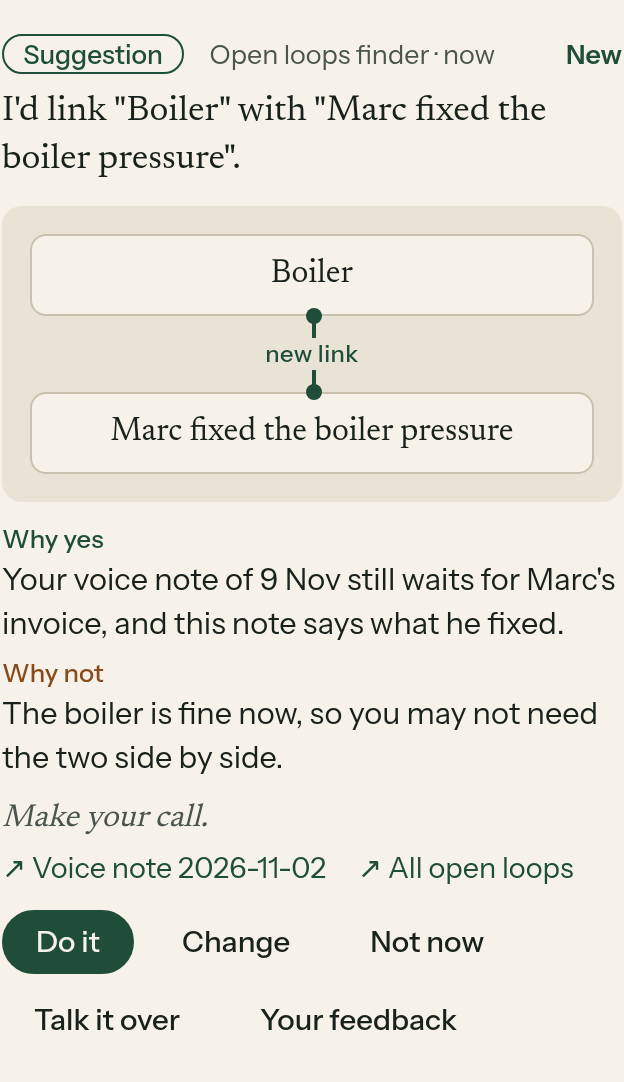
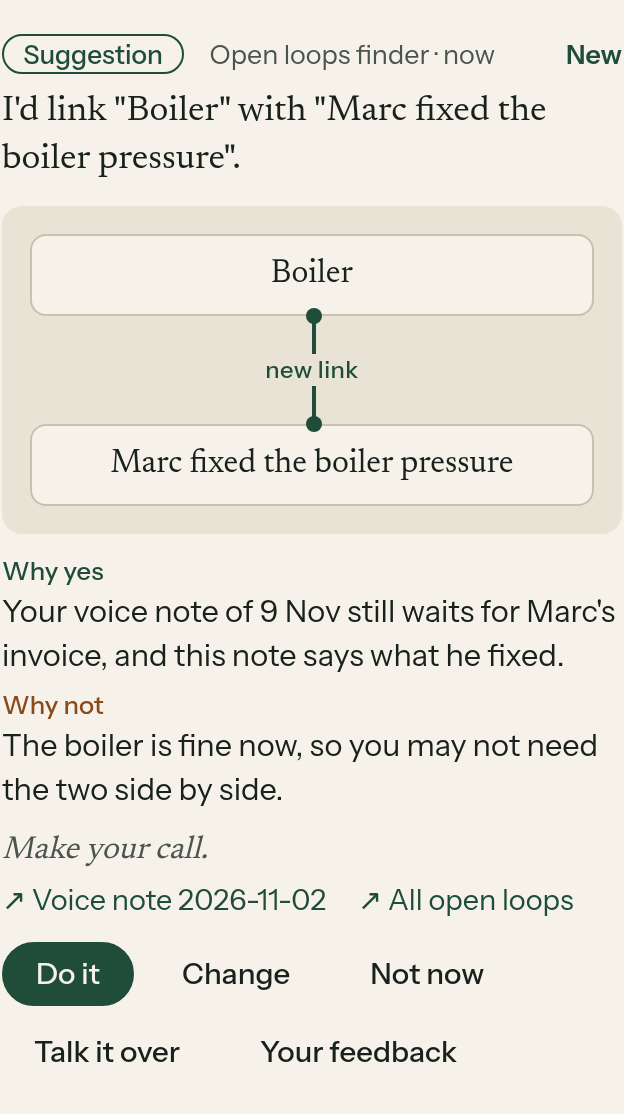
S36: the Clarifier's questions in the same card shape (S40 folded in)
The Clarifier's card now draws the words it is unsure of with a line to each thing they could mean,
one line "Why I ask", and "Make your call." over its answer buttons. The title, the buttons and how
an answer is filed are unchanged. The shared card gains a question form (change "which" with its
meanings, and a why line); a change keeps why yes and why not.

Run: run_c21ca1f9-55cc-4448-b31d-bc107dd54627

diff --git a/packages/server/src/helperCard.ts b/packages/server/src/helperCard.ts
@@ -3,29 +3,38 @@
  * introducing this new link. It's between these two concepts. That's why I think you should do it.
  * That's why you might not want to do it. Make your call." Every helper card says it the same way: a
  * small picture of the two ideas and what the change does between them, one line why yes, one line
- * why not, and the call is the person's. Later helpers (a clarifying question, something to try)
- * post the same shape, with or without a picture. Only the shape lives here; the web app draws it.
+ * why not, and the call is the person's. A helper's question (the Clarifier, S37, folded in as S40)
+ * says it the same way: the words that could mean two things with a line to each meaning, one line
+ * why it asks, and the call is the person's. Only the shape lives here; the web app draws it.
  */
 
-/** What the change does between the two ideas in the picture; the memory desk can do each of these. */
-export type HelperCardChange = "link" | "unlink" | "move" | "rename" | "own-place";
+/**
+ * What the change does between the two ideas in the picture; the memory desk can do each of these.
+ * `which`: a question's picture, the words said and the two or three things they could mean.
+ */
+export type HelperCardChange = "link" | "unlink" | "move" | "rename" | "own-place" | "which";
 
-export const HELPER_CARD_CHANGES: readonly HelperCardChange[] = ["link", "unlink", "move", "rename", "own-place"];
+export const HELPER_CARD_CHANGES: readonly HelperCardChange[] = ["link", "unlink", "move", "rename", "own-place", "which"];
 
 export interface HelperCardPicture {
   change: HelperCardChange;
   /** The first idea: the page that is linked, moved or renamed, by what it is about. */
   from: string;
-  /** The second idea: the page it links to, the place it moves under, or the new name. Null for own-place. */
+  /** The second idea: the page it links to, the place it moves under, or the new name. Null for own-place and which. */
   to: string | null;
+  /** which: the two or three things the words could mean. */
+  meanings?: string[];
 }
 
+/** A change has why yes and why not; a question has why it asks. */
 export interface HelperCard {
   picture: HelperCardPicture | null;
   /** One line: why the helper thinks you should. */
-  yes: string;
+  yes?: string;
   /** One line: why you might not want to. */
-  no: string;
+  no?: string;
+  /** A question: one line why it asks. */
+  why?: string;
 }
 
 /** The last words on every helper card. */
@@ -37,14 +46,17 @@ const LINE_MAX = 240;
 const words = (value: unknown, max: number): string =>
   typeof value === "string" ? value.replace(/\s+/g, " ").trim().slice(0, max).trim() : "";
 
-/** A card from untrusted input (a model's reply, a post): null unless it has both reasons. */
+/** A card from untrusted input (a model's reply, a post): null unless it has both reasons, or why it asks. */
 export function cleanHelperCard(raw: unknown): HelperCard | null {
   if (!raw || typeof raw !== "object") return null;
   const data = raw as Record<string, unknown>;
   const yes = words(data.yes, LINE_MAX);
   const no = words(data.no, LINE_MAX);
-  if (!yes || !no) return null;
-  return { picture: cleanPicture(data.picture), yes, no };
+  const why = words(data.why, LINE_MAX);
+  const picture = cleanPicture(data.picture);
+  if (yes && no) return { picture: picture?.change === "which" ? null : picture, yes, no };
+  if (why && picture?.change === "which") return { picture, why };
+  return null;
 }
 
 function cleanPicture(raw: unknown): HelperCardPicture | null {
@@ -55,6 +67,14 @@ function cleanPicture(raw: unknown): HelperCardPicture | null {
   const to = words(data.to, IDEA_MAX);
   if (!change || !from) return null;
   if (change === "own-place") return { change, from, to: null };
+  if (change === "which") {
+    const seen = new Set<string>();
+    const meanings = (Array.isArray(data.meanings) ? data.meanings : [])
+      .map((meaning) => words(meaning, IDEA_MAX))
+      .filter((meaning) => meaning && !seen.has(meaning.toLowerCase()) && seen.add(meaning.toLowerCase()))
+      .slice(0, 3);
+    return meanings.length >= 2 ? { change, from, to: null, meanings } : null;
+  }
   if (!to || to.toLowerCase() === from.toLowerCase()) return null;
   return { change, from, to };
 }
@@ -68,11 +88,13 @@ export function pictureTitle(picture: HelperCardPicture): string {
     case "move": return `I'd move "${from}" under "${to}".`;
     case "rename": return `I'd rename "${from}" to "${to}".`;
     case "own-place": return `I'd give "${from}" its own place at the top of your memory.`;
+    case "which": return `Which did you mean by "${from}"?`;
   }
 }
 
 /** The picture in one line, as the helper's note keeps it: `Boiler, new link, Home`. */
 export function pictureWords(picture: HelperCardPicture): string {
+  if (picture.change === "which") return `${picture.from}, could mean, ${(picture.meanings ?? []).join(" or ")}`;
   const words = { link: "new link", unlink: "link off", move: "moves under", rename: "new name", "own-place": "own place" }[picture.change];
   return [picture.from, words, picture.to ?? "top of your memory"].join(", ");
 }
@@ -97,8 +119,9 @@ export function namedCard(card: HelperCard, phrases: ReadonlyArray<string>): Hel
   const named = (text: string) => namedMemories(text, phrases);
   return {
     picture: card.picture ? { ...card.picture, from: named(card.picture.from), to: card.picture.to ? named(card.picture.to) : null } : null,
-    yes: named(card.yes),
-    no: named(card.no),
+    ...(card.yes ? { yes: named(card.yes) } : {}),
+    ...(card.no ? { no: named(card.no) } : {}),
+    ...(card.why ? { why: named(card.why) } : {}),
   };
 }
 

diff --git a/apps/web/src/components/helper-card.tsx b/apps/web/src/components/helper-card.tsx
@@ -5,7 +5,8 @@ import "@/components/helper-card.css"
 // two concepts. That's why I think you should do it. That's why you might not want to do it. Make
 // your call." The one way a helper's card says what it wants: a small picture of the two ideas with
 // the change drawn between them, one line why yes, one line why not, and the call is yours. Every
-// helper card uses it, so later helpers (a clarifying question, something to try) look the same.
+// helper card uses it. A helper's question (the Clarifier) says it the same way: the words it is
+// unsure of, a line to each thing they could mean, why it asks, and the call is yours.
 
 /** The words on the line between the two ideas. */
 const CHANGE_WORDS: Record<HelperCardChange, string> = {
@@ -14,10 +15,12 @@ const CHANGE_WORDS: Record<HelperCardChange, string> = {
   move: "moves under",
   rename: "new name",
   "own-place": "own place",
+  which: "could mean",
 }
 
 function Picture({ picture }: { picture: NonNullable<HelperCard["picture"]> }) {
   const { change, from } = picture
+  if (change === "which") return <Which from={from} meanings={picture.meanings ?? []} />
   const to = change === "own-place" ? "Top of your memory" : picture.to
   return (
     <figure
@@ -37,7 +40,31 @@ function Picture({ picture }: { picture: NonNullable<HelperCard["picture"]> }) {
   )
 }
 
-/** The card's picture, why yes, why not and "Make your call", while the call is still open. */
+/** A question's picture: the words said, a line to each thing they could mean. */
+function Which({ from, meanings }: { from: string; meanings: string[] }) {
+  return (
+    <figure
+      className="zh-picture zh-which"
+      data-testid="helper-card-picture"
+      aria-label={`"${from}" could mean ${meanings.join(" or ")}`}
+    >
+      <span className="zh-idea zh-from zh-said">&ldquo;{from}&rdquo;</span>
+      <span className="zh-join" aria-hidden="true">
+        <span className="zh-line" />
+        <span className="zh-change">{CHANGE_WORDS.which}</span>
+      </span>
+      <span className="zh-meanings">
+        {meanings.map((meaning) => (
+          <span key={meaning} className="zh-idea zh-to">
+            {meaning}
+          </span>
+        ))}
+      </span>
+    </figure>
+  )
+}
+
+/** The card's picture, its reasons and "Make your call", while the call is still open. */
 export function HelperCardView({
   card,
   open,
@@ -49,14 +76,24 @@ export function HelperCardView({
     <div className="zh-card" data-testid="helper-card">
       {card.picture ? <Picture picture={card.picture} /> : null}
       <dl className="zh-why">
-        <div>
-          <dt>Why yes</dt>
-          <dd>{card.yes}</dd>
-        </div>
-        <div>
-          <dt>Why not</dt>
-          <dd>{card.no}</dd>
-        </div>
+        {card.why ? (
+          <div className="zh-ask">
+            <dt>Why I ask</dt>
+            <dd>{card.why}</dd>
+          </div>
+        ) : null}
+        {card.yes ? (
+          <div>
+            <dt>Why yes</dt>
+            <dd>{card.yes}</dd>
+          </div>
+        ) : null}
+        {card.no ? (
+          <div className="zh-not">
+            <dt>Why not</dt>
+            <dd>{card.no}</dd>
+          </div>
+        ) : null}
       </dl>
       {open ? <p className="zh-call">Make your call.</p> : null}
     </div>

diff --git a/packages/server/src/clarifier.ts b/packages/server/src/clarifier.ts
@@ -5,6 +5,7 @@ import type { PersonaStore } from "./personaStore.js";
 import type { SubscriberStore } from "./subscribers.js";
 import { isProjectWork } from "./helperScope.js";
 import { teamAskSubscription } from "./teamAsk.js";
+import type { HelperCard } from "./helperCard.js";
 
 /**
  * The Clarifier (EPIC-14 S37). Jordi, 2026-11-10: "we could have like a disambiguator or something.
@@ -90,17 +91,21 @@ export function memoryKind(title: string): string {
 }
 
 /**
- * The card it posts, in one place (S36 is rewriting every helper card in plain words; this is the
- * only spot to change). The title carries the memory, its day and the words, because the answer is
- * filed with the title as its first line: 'In your voice note of 10 Nov you said "the flat": which
- * flat did you mean?'.
+ * The card it posts, in one place. The title carries the memory, its day and the words, because the
+ * answer is filed with the title as its first line: 'In your voice note of 10 Nov you said "the
+ * flat": which flat did you mean?'. S36 (S40 folded in): in every helper card's shape, the words
+ * with a line to each thing they could mean, one line why it asks, then the call is the person's.
  */
-export function clarifierCard(c: Clarification, kind: string, capturedAt: string): { title: string; body: string; options: InboxOption[] } {
+export function clarifierCard(c: Clarification, kind: string, capturedAt: string): { title: string; body?: string; options: InboxOption[]; card?: HelperCard } {
   const said = `In your ${kind} of ${shortDay(capturedAt)}`;
+  const why = c.why || `It could mean ${c.options.length === 2 ? "either" : "any"} of these.`;
   return {
     title: c.quote ? `${said} you said "${c.quote}": ${c.question}` : `${said}: ${c.question}`,
-    body: [c.why, "Pick one, or answer in your own words."].filter(Boolean).join(" "),
     options: c.options.map((label, index) => ({ id: `m${index + 1}`, label })),
+    // Without the words said there is nothing to draw: the old body says why.
+    ...(c.quote
+      ? { card: { picture: { change: "which" as const, from: c.quote, to: null, meanings: c.options }, why } }
+      : { body: [c.why, "Pick one, or answer in your own words."].filter(Boolean).join(" ") }),
   };
 }
 

diff --git a/apps/web/src/components/helper-card.css b/apps/web/src/components/helper-card.css
@@ -51,12 +51,19 @@
 }
 .zh-move .zh-to, .zh-top { border-color: var(--zp-accent); }
 .zh-rename .zh-from { text-decoration: line-through; color: var(--zp-muted); }
+/* A question: the words said, then each thing they could mean, stacked. */
+.zh-said { font-style: italic; }
+.zh-meanings { display: flex; flex-direction: column; gap: 0.4rem; }
+.zh-which .zh-line::after {
+  content: ""; position: absolute; right: -1px; top: -6px;
+  border-left: 8px solid var(--zp-accent); border-top: 5px solid transparent; border-bottom: 5px solid transparent;
+}
 .zh-top { font-family: var(--zp-sans); font-size: 0.9rem; border-style: dashed; color: var(--zp-accent); }
 
 .zh-why { margin: 0; display: grid; gap: 0.35rem; }
 .zh-why div { display: grid; grid-template-columns: 5.2rem minmax(0, 1fr); gap: 0.6rem; align-items: baseline; }
 .zh-why dt { font: 500 0.8rem var(--zp-sans); color: var(--zp-accent); }
-.zh-why div + div dt { color: var(--zp-warn); }
+.zh-why .zh-not dt { color: var(--zp-warn); }
 .zh-why dd { margin: 0; font-size: 0.96rem; line-height: 1.45; }
 .zh-call { margin: 0; font: italic 400 1rem var(--zp-serif); color: var(--zp-muted); }
 
@@ -67,7 +74,7 @@
   .zh-unlink .zh-line { border-top: 0; border-left: 2px dashed var(--zp-faint); }
   .zh-link .zh-line::before { left: -5px; top: -4px; }
   .zh-link .zh-line::after { left: -5px; right: auto; top: auto; bottom: -4px; }
-  .zh-move .zh-line::after, .zh-rename .zh-line::after, .zh-own-place .zh-line::after {
+  .zh-move .zh-line::after, .zh-rename .zh-line::after, .zh-own-place .zh-line::after, .zh-which .zh-line::after {
     right: auto; left: -6px; top: auto; bottom: -1px;
     border-left: 5px solid transparent; border-right: 5px solid transparent; border-top: 8px solid var(--zp-accent); border-bottom: 0;
   }

diff --git a/packages/server/src/personaCatalog.ts b/packages/server/src/personaCatalog.ts
@@ -245,7 +245,7 @@ export function parseSuggestion(reply: Record<string, unknown> | null): { title:
  * may hold any word).
  */
 export function aboutProjectWork(suggestion: { title: string; why: string; action: string; card?: HelperCard | null }): boolean {
-  return hasWorkCode(suggestion.action) || isProjectWork(suggestion.title, suggestion.why) || (suggestion.card ? isProjectWork(suggestion.card.no) : false);
+  return hasWorkCode(suggestion.action) || isProjectWork(suggestion.title, suggestion.why) || (suggestion.card?.no ? isProjectWork(suggestion.card.no) : false);
 }
 
 function earlierLines(ctx: PersonaContext): string[] {
@@ -402,7 +402,7 @@ function postSuggestionCard(ctx: PersonaContext, entries: MemoryEntry[], suggest
 
 /** The suggestion in the helper's own note: the change, why yes, why not, and the team's answer. */
 const suggestionLines = (suggestion: Offered | null, lead: string) => suggestion
-  ? [`- ${lead}${suggestion.action}`, ...(suggestion.card?.picture ? [`- Picture: ${pictureWords(suggestion.card.picture)}`] : []), ...(suggestion.why ? [`- Why: ${suggestion.why}`] : []), ...(suggestion.card ? [`- Why not: ${suggestion.card.no}`] : []), ...(suggestion.team ? ["", suggestion.team] : [])]
+  ? [`- ${lead}${suggestion.action}`, ...(suggestion.card?.picture ? [`- Picture: ${pictureWords(suggestion.card.picture)}`] : []), ...(suggestion.why ? [`- Why: ${suggestion.why}`] : []), ...(suggestion.card?.no ? [`- Why not: ${suggestion.card.no}`] : []), ...(suggestion.team ? ["", suggestion.team] : [])]
   : [];
 const suggestionNote = (suggestion: Offered | null) => (suggestion ? ["", "## Suggested", "", ...suggestionLines(suggestion, "")] : []);
 

diff --git a/apps/web/src/components/memory-inbox.test.tsx b/apps/web/src/components/memory-inbox.test.tsx
@@ -176,6 +176,22 @@ describe("one chat, and a reply box on every card (EPIC-14 S2 round 3)", () => {
     links: [{ label: "Flat hunt", path: "Areas/Flat hunt.md" }],
   }
 
+  it("a helper's question shows the words with each meaning and why it asks (S36, S40 folded in)", async () => {
+    const ASK: InboxItem = {
+      ...QUESTION, id: "q2", from: "Clarifier", title: 'In your note of 10 Nov you said "the flat": which one did you mean?',
+      options: [{ id: "m1", label: "Valencia flat" }, { id: "m2", label: "Barcelona flat" }], recommended: null,
+      card: { picture: { change: "which", from: "the flat", to: null, meanings: ["Valencia flat", "Barcelona flat"] }, why: "You have two flats in your memory." },
+    }
+    mockFetch((url) => (url === "/api/console/inbox" ? { items: [ASK], needsYou: 1 } : { needsYou: 1 }))
+    render(<MemoryInbox />)
+    expect(await screen.findByText(ASK.title)).toBeTruthy()
+    expect(screen.getByTestId("helper-card-picture").getAttribute("aria-label")).toBe('"the flat" could mean Valencia flat or Barcelona flat')
+    expect(screen.getByText("Why I ask")).toBeTruthy()
+    expect(screen.queryByText("Why not")).toBeNull()
+    expect(screen.getByText("Make your call.")).toBeTruthy()
+    expect(screen.getByRole("button", { name: "Valencia flat" })).toBeTruthy()
+  })
+
   it("a new link shows the two ideas, why yes, why not and Make your call (S36)", async () => {
     const LINK: InboxItem = {
       ...SUGGESTION, id: "s2", title: 'I\'d link "Boiler" with "Home".', action: "Link Boiler to Home so each shows the other.",

diff --git a/packages/server/test/helperCard.test.ts b/packages/server/test/helperCard.test.ts
@@ -15,6 +15,15 @@ describe("helper card (S36)", () => {
     expect(cleanHelperCard({ yes: "y", no: "n", picture: { change: "own-place", from: "Shed", to: "anything" } })!.picture).toEqual({ change: "own-place", from: "Shed", to: null });
   });
 
+  it("a question's card: the words with two or three meanings, and why it asks (S40 folded in)", () => {
+    const which = { change: "which", from: "the flat", meanings: ["Valencia flat", "valencia flat", "Barcelona flat", "Lisbon flat", "Porto flat"] };
+    expect(cleanHelperCard({ why: "You have two flats.", picture: which })).toEqual({
+      picture: { change: "which", from: "the flat", to: null, meanings: ["Valencia flat", "Barcelona flat", "Lisbon flat"] }, why: "You have two flats.",
+    });
+    expect(cleanHelperCard({ why: "One meaning only.", picture: { change: "which", from: "the flat", meanings: ["Valencia flat"] } })).toBeNull();
+    expect(cleanHelperCard({ why: "No picture." })).toBeNull();
+  });
+
   it("says each change in plain words", () => {
     expect(pictureTitle({ change: "link", from: "Boiler", to: "Home" })).toBe('I\'d link "Boiler" with "Home".');
     expect(pictureTitle({ change: "unlink", from: "Boiler", to: "Garden" })).toBe('I\'d take the link off between "Boiler" and "Garden".');

diff --git a/packages/server/test/clarifier.test.ts b/packages/server/test/clarifier.test.ts
@@ -96,7 +96,9 @@ describe("Clarifier (EPIC-14 S37)", () => {
     const flat = items.find((item) => item.title.includes("the flat"))!;
     expect(flat).toMatchObject({ from: "Clarifier", status: "open", title: "In your note of 10 Nov you said \"the flat\": by \"the flat\", which one did you mean?" });
     expect(flat.options.map((o) => o.label)).toEqual(["Valencia flat", "Barcelona flat"]);
-    expect(flat.body).toBe("You have two flats in your memory. Pick one, or answer in your own words.");
+    // S36 (S40 folded in): the card in every helper's shape: the words, a line to each meaning, why it asks.
+    expect(flat.body).toBeNull();
+    expect(flat.card).toEqual({ picture: { change: "which", from: "the flat", to: null, meanings: ["Valencia flat", "Barcelona flat"] }, why: "You have two flats in your memory." });
     expect(flat.links[0]).toEqual({ label: "Your note of 10 Nov", path: "Log/2026-11-10.md" });
     const ana = items.find((item) => item.title.includes("Ana"))!;
     // A repeated meaning is dropped; one with a single meaning is no question.

diff --git a/apps/web/src/lib/inbox.ts b/apps/web/src/lib/inbox.ts
@@ -31,13 +31,22 @@ export type InboxReply = {
 }
 
 /** S36: what a helper's change does between the two ideas in its card's picture. */
-export type HelperCardChange = "link" | "unlink" | "move" | "rename" | "own-place"
+export type HelperCardChange = "link" | "unlink" | "move" | "rename" | "own-place" | "which"
 
-/** S36: a helper's card in plain words: the picture of the change, why yes, why not. */
+/**
+ * S36: a helper's card in plain words: the picture of the change, why yes, why not. A question
+ * (the Clarifier) has the words it asks about with their meanings, and why it asks.
+ */
 export type HelperCard = {
-  picture: { change: HelperCardChange; from: string; to: string | null } | null
-  yes: string
-  no: string
+  picture: {
+    change: HelperCardChange
+    from: string
+    to: string | null
+    meanings?: string[]
+  } | null
+  yes?: string
+  no?: string
+  why?: string
 }
 
 export type InboxItem = {
